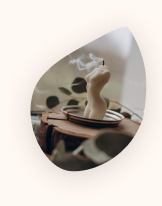
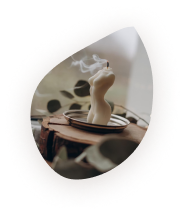
Hero adative

Changed region(s): [[0.1543, 0.1165, 0.9259, 0.8447]]

diff --git a/css/style.css b/css/style.css
@@ -319,3 +319,33 @@ button{
         padding: 30px 0 50px;
     }
 }
+
+@media (max-width: 360px){
+    .top__img-l{
+     width: 185px; 
+    }
+    .top__img{
+     left: auto;
+     right: 0;
+    
+    }
+    .top__content{
+        width: 200px;
+        padding: 20px 0 0;
+         position: relative;
+     z-index: 1;
+    }
+    .top__title{
+        font-size: 18px;
+    }
+    .top__text{
+        font-size: 10px;
+    }
+}
+
+@media (max-width: 350px){
+    .top__img-l{
+     width: 135px;
+     margin-top: 20px; 
+    }
+}

diff --git a/index.html b/index.html
@@ -57,6 +57,7 @@
         </button>
         </div>
         <picture class="top__img">
+          <source srcset="images/Top_S.png" media="(max-width: 360px)">
           <source srcset="images/Top_M.png" media="(max-width: 480px)">
           <img class="top__img-l" src="images/Top_L.png" alt="">
         </picture>
